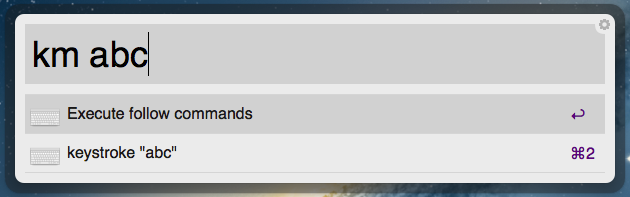
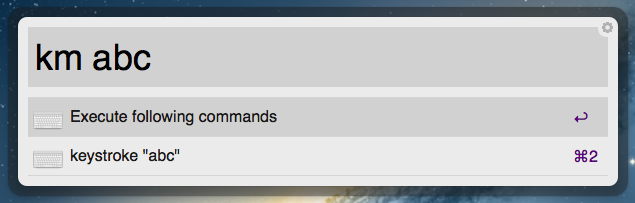
fix typos

diff --git a/src/suggest.py b/src/suggest.py
@@ -9,7 +9,7 @@ def main(query):
     uid = uid_generator()
     suggested_items.append(alfred.Item(
         attributes = { 'uid': uid.next(), 'arg': query },
-        title = 'Execute follow commands', subtitle = '', 
+        title = 'Execute following commands', subtitle = '', 
         icon = 'icon.png'))
     for command, script in keymacro.generate_applescripts(query):
         script = script.replace('''tell application "System Events" to ''', '')
